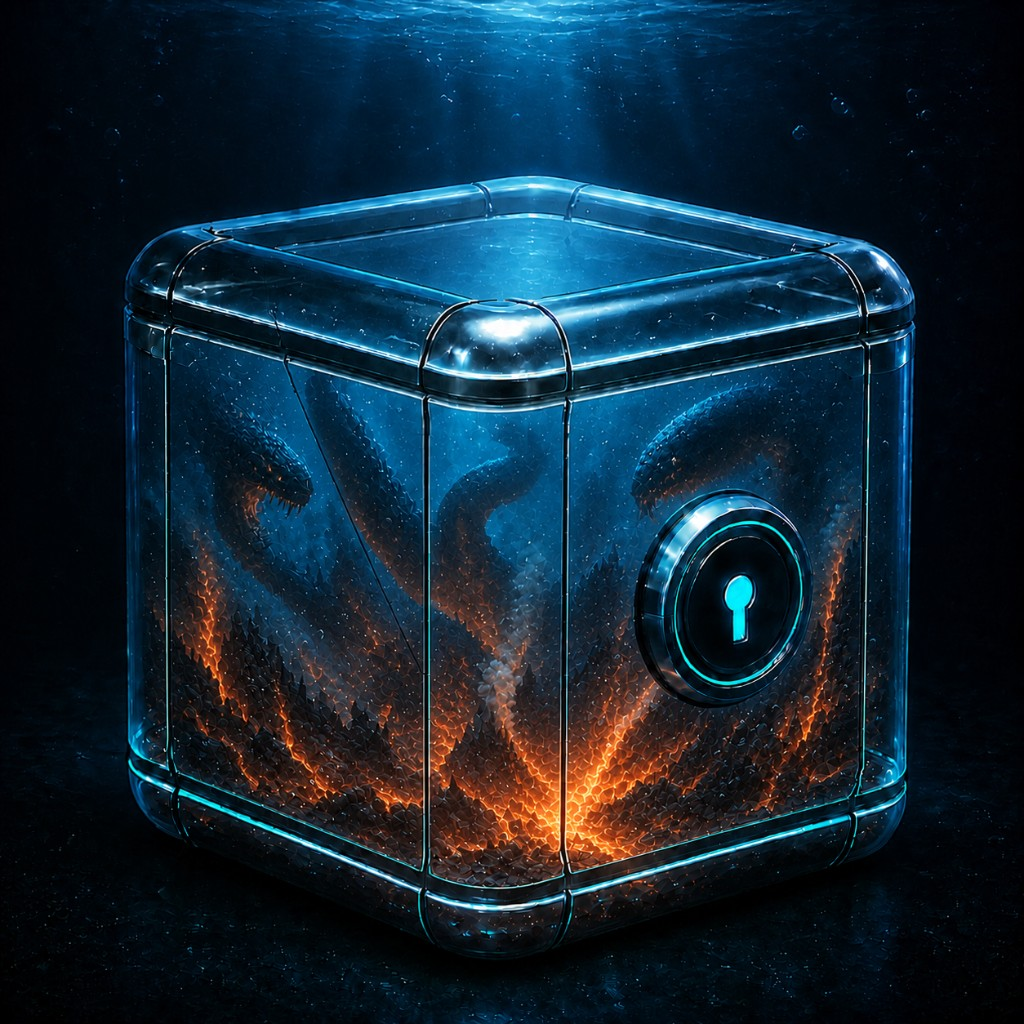
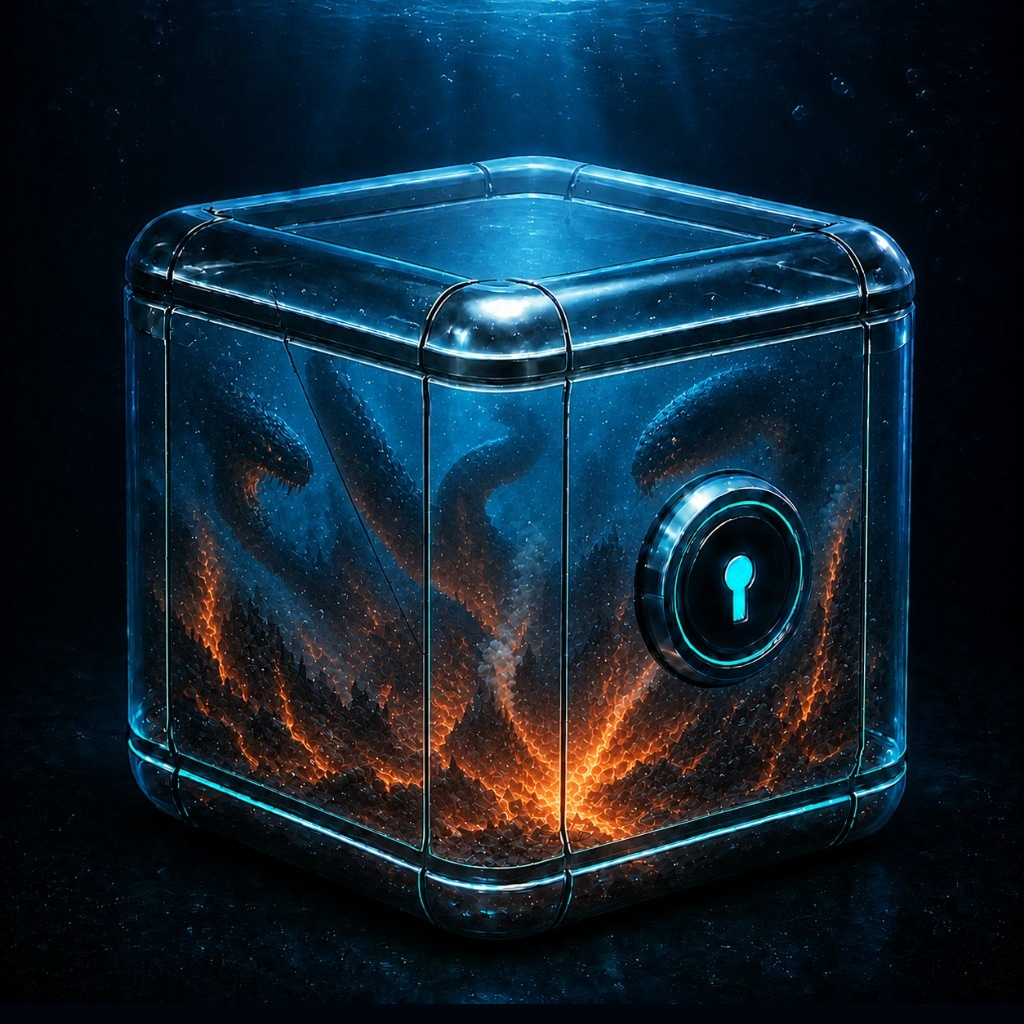
Center Leviathan case art to match other crates.

diff --git a/apps/web/src/pages/Casino.tsx b/apps/web/src/pages/Casino.tsx
@@ -28,7 +28,7 @@ const CASE_ART: Record<string, string> = {
   TIDE: '/cases/TIDE.jpg',
   REEF: '/cases/REEF.jpg',
   ABYSS: '/cases/ABYSS.jpg',
-  LEVIATHAN: '/cases/LEVIATHAN.jpg?v=2',
+  LEVIATHAN: '/cases/LEVIATHAN.jpg?v=3',
 };
 
 function caseArt(code: string) {
